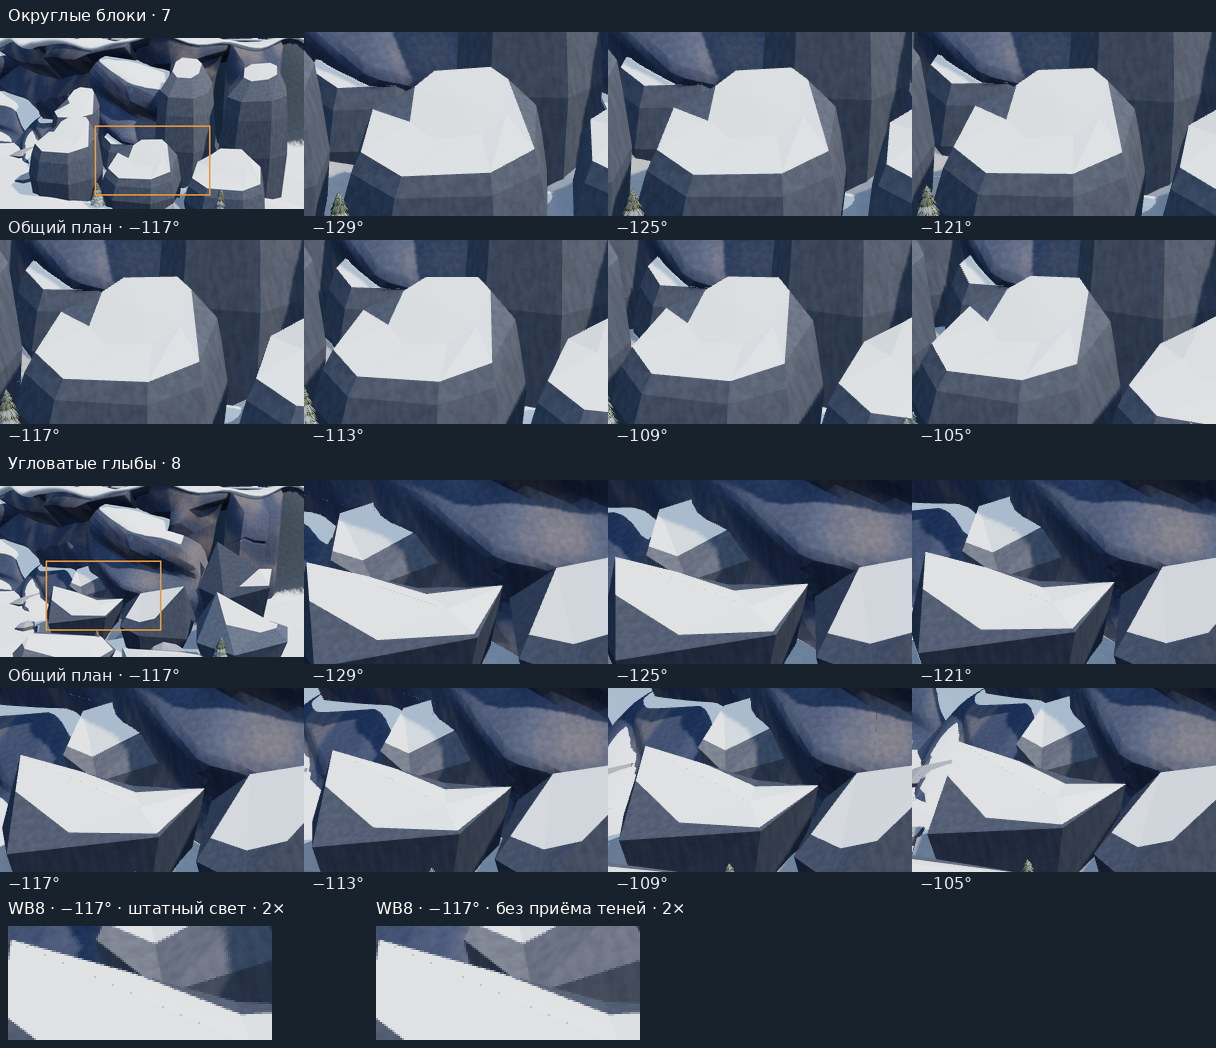
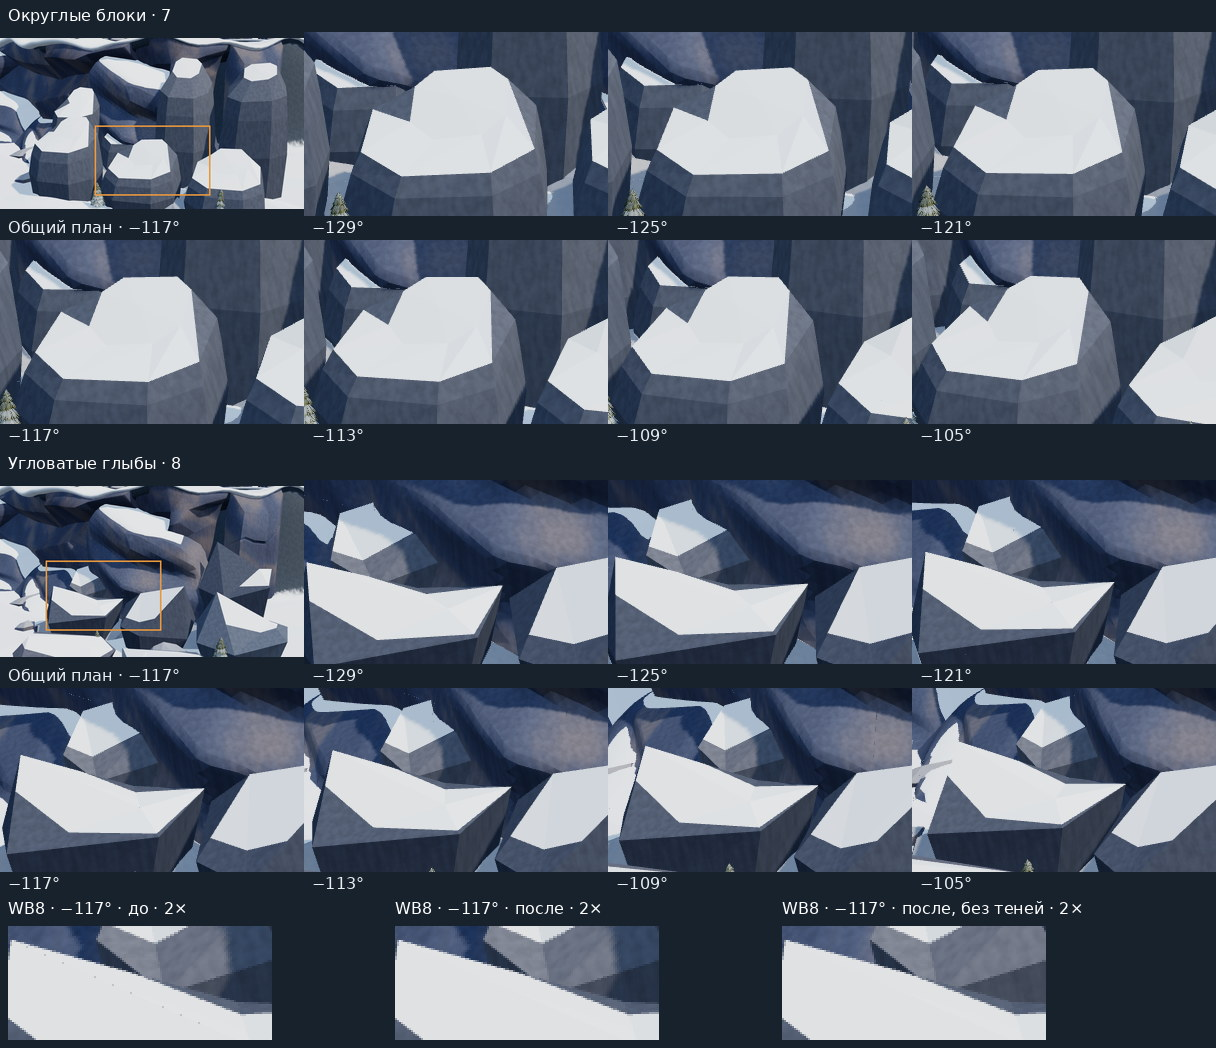
Recheck the angular crest repair across seven views and four seeds

Changed region(s): [[0.625, 0.855, 0.875, 1.0], [0.2812, 0.855, 0.5625, 1.0], [0.125, 0.855, 0.1875, 0.8855]]

diff --git a/docs/mountains-slice/wall-rounded/compare-angular-revision.py b/docs/mountains-slice/wall-rounded/compare-angular-revision.py
@@ -1,0 +1,53 @@
+"""Measure every RGB change against the archived normal-camera captures."""
+
+import argparse
+import io
+import json
+import subprocess
+from pathlib import Path
+
+from PIL import Image, ImageChops
+
+
+def compare(previous, current):
+    delta = ImageChops.difference(previous, current)
+    r, g, b = delta.split()
+    maximum = ImageChops.lighter(ImageChops.lighter(r, g), b)
+    return {"changedPixels": sum(maximum.histogram()[1:]), "bbox": maximum.getbbox(),
+            "maxChannelDelta": maximum.getextrema()[1]}
+
+
+def main():
+    parser = argparse.ArgumentParser(description=__doc__)
+    parser.add_argument("images", type=Path)
+    parser.add_argument("result", type=Path)
+    parser.add_argument("--archive", default="caaffff")
+    parser.add_argument("--base-source", default="d21ec23")
+    parser.add_argument("--new-source", default="ed02069")
+    args = parser.parse_args()
+    ref = lambda rev: subprocess.check_output(["git", "rev-parse", rev], text=True).strip()
+    records = []
+    captures = json.loads((args.images / "no-shadow" / "materials.json").read_text())
+    for item in captures:
+        name = f"{item['family']}-{item['preset']}-{item['seed']}.png"
+        record = {**item, "filename": name}
+        if item["family"] == "angular" and item["material"] != {"factor": -1, "units": -1}:
+            raise ValueError("Expected the original snow material depth bias")
+        for mode in ["withShadows", "noShadows"]:
+            if mode == "noShadows" and item["seed"] != 42:
+                continue
+            path = Path(name) if mode == "withShadows" else Path("no-shadow") / name
+            object_id = f"{args.archive}:docs/mountains-slice/integration/final-walls/{path}"
+            baseline = subprocess.check_output(["git", "show", object_id])
+            with Image.open(io.BytesIO(baseline)) as old, Image.open(args.images / path) as new:
+                if old.size != (800, 450) or new.size != old.size:
+                    raise ValueError(f"Unexpected viewport for {name}")
+                record[mode] = compare(old.convert("RGB"), new.convert("RGB"))
+        records.append(record)
+    result = {"previousSource": ref(args.base_source), "previousFrames": ref(args.archive),
+              "currentSource": ref(args.new_source), "viewport": [800, 450], "records": records}
+    args.result.write_text(json.dumps(result, indent=2) + "\n")
+
+
+if __name__ == "__main__":
+    main()

diff --git a/docs/mountains-slice/wall-rounded/make-seam-sheet.py b/docs/mountains-slice/wall-rounded/make-seam-sheet.py
@@ -54,6 +54,7 @@ def main():
     parser = argparse.ArgumentParser(description=__doc__)
     parser.add_argument("frames", type=Path)
     parser.add_argument("output", type=Path)
+    parser.add_argument("--previous-frames", type=Path)
     args = parser.parse_args()
     args.output.mkdir(parents=True, exist_ok=True)
     camera = json.loads((args.frames / "camera.json").read_text())
@@ -78,8 +79,20 @@ def main():
     detail = (139, 256, 271, 313)
     y = 2 * FAMILY_HEIGHT
     zoom = 2
-    for x, frame, label in [(8, lit, "WB8 · −117° · штатный свет · 2×"),
-                            (376, control, "WB8 · −117° · без приёма теней · 2×")]:
+    details = [(8, lit, "WB8 · −117° · после · 2×"),
+               (395, control, "WB8 · −117° · после, без теней · 2×")]
+    comparison = None
+    if args.previous_frames:
+        previous = read_frame(args.previous_frames / "angular-3.png")
+        details = [(8, previous, "WB8 · −117° · до · 2×"),
+                   (395, lit, "WB8 · −117° · после · 2×"),
+                   (782, control, "WB8 · −117° · после, без теней · 2×")]
+        comparison = []
+        for i, azimuth in enumerate(camera["azimuths"][:7]):
+            old = read_frame(args.previous_frames / f"angular-{i}.png")
+            new = read_frame(args.frames / f"angular-{i}.png")
+            comparison.append({"azimuth": azimuth, "changedPixels": changed_count(old, new)})
+    for x, frame, label in details:
         draw.text((x, y + 3), label, font=font, fill="white")
         tile = frame.crop(detail)
         tile = tile.resize((tile.width * zoom, tile.height * zoom), Image.Resampling.NEAREST)
@@ -87,6 +100,8 @@ def main():
     sheet.save(args.output / "seams.jpg", quality=88, subsampling=1, optimize=True)
     report = {"seed": 42, "presetIndex": 1, "camera": camera, "results": results,
               "angularShadowControlChangedPixels": changed, "angularDetail": detail}
+    if comparison is not None:
+        report["angularBeforeAfter"] = comparison
     (args.output / "seams.json").write_text(json.dumps(report, indent=2) + "\n")
 
 

diff --git a/docs/mountains-slice/wall-rounded/README.md b/docs/mountains-slice/wall-rounded/README.md
@@ -33,7 +33,7 @@
 
 На сиде 42 камера прошла одну дугу у обоих средних пресетов. Снято по семь кадров при азимутах от −129° до −105° с шагом 4° и при возвышении 13°. Азимут отсчитан от мировой оси +Z в сторону +X. В каждой позиции используются один радиус 245 и вертикальный угол обзора 27°. При возврате к −117° каждый пресет повторил исходный кадр побитово. [Последовательности и увеличенная деталь](seams.jpg) · [Координаты камеры и проверки RGB](seams.json).
 
-У семи округлых блоков на проверенной грани видимый контур шапки непрерывен во всех семи ракурсах. У восьми угловатых глыб внешняя граница также сохраняет форму, но по внутренней диагонали одной шапки виден меняющийся с углом пунктир из серых пикселей. Он сохраняется и при отключённом приёме теней. На этих последовательностях не видно сквозного просвета или переключения целой грани между снегом и камнем. Прогон выполнен на Chromium с программным WebGL SwiftShader; устойчивость шва на целевом GPU не проверена.
+У семи округлых блоков проверенная граница шапки непрерывна. У восьми угловатых глыб изначально встречалась цепочка серых пикселей вдоль внутренней диагонали снежной грани. В `ed02069` сместили только скрытую часть камня под гребнем. У снега сохранены исходные координаты и материал. После исправления цепочка исчезла на всех семи ракурсах. У трёхстороннего узла на центральном кадре сохранился один смешанный пиксель (259, 315), закреплённый в конце ребра. На серии не видно сквозного просвета или переключения целой грани между снегом и камнем. Проверка выполнена в Chromium с программным WebGL SwiftShader. Поведение целевого GPU не проверено. [Сравнение обычной камеры на шести вариантах WB](angular-revision.json) · [Проверка стыка по выборкам MSAA](../wall-angular/snow-ridge-check.json).
 
 ## Как повторить проверку
 
@@ -59,4 +59,13 @@ python docs/mountains-slice/wall-rounded/compare_views.py \
 node docs/mountains-slice/wall-rounded/capture-seams.cjs http://127.0.0.1:5173 /tmp/mountains-seam-frames
 node docs/mountains-slice/wall-rounded/capture-seams.cjs http://127.0.0.1:5173 /tmp/mountains-seam-frames shadow-control
 python docs/mountains-slice/wall-rounded/make-seam-sheet.py /tmp/mountains-seam-frames /tmp/mountains-seam-sheet
+```
+
+Чтобы воспроизвести сравнение «до / после», снимите исходную угловатую стенку из `d21ec23` на тех же ракурсах и передайте путь к сохранённым исходным PNG через `--previous-frames` при построении листа. Оригиналы обычной камеры для проверки исправления сохранены в Git в `caaffff`.
+
+```sh
+node docs/mountains-slice/wall-rounded/capture-without-shadows.cjs \
+  http://127.0.0.1:5173 /tmp/mountains-wb-final/no-shadow angular /tmp/mountains-wb-final four-seeds
+python docs/mountains-slice/wall-rounded/compare-angular-revision.py \
+  /tmp/mountains-wb-final /tmp/mountains-wb-final/comparison.json
 ```
